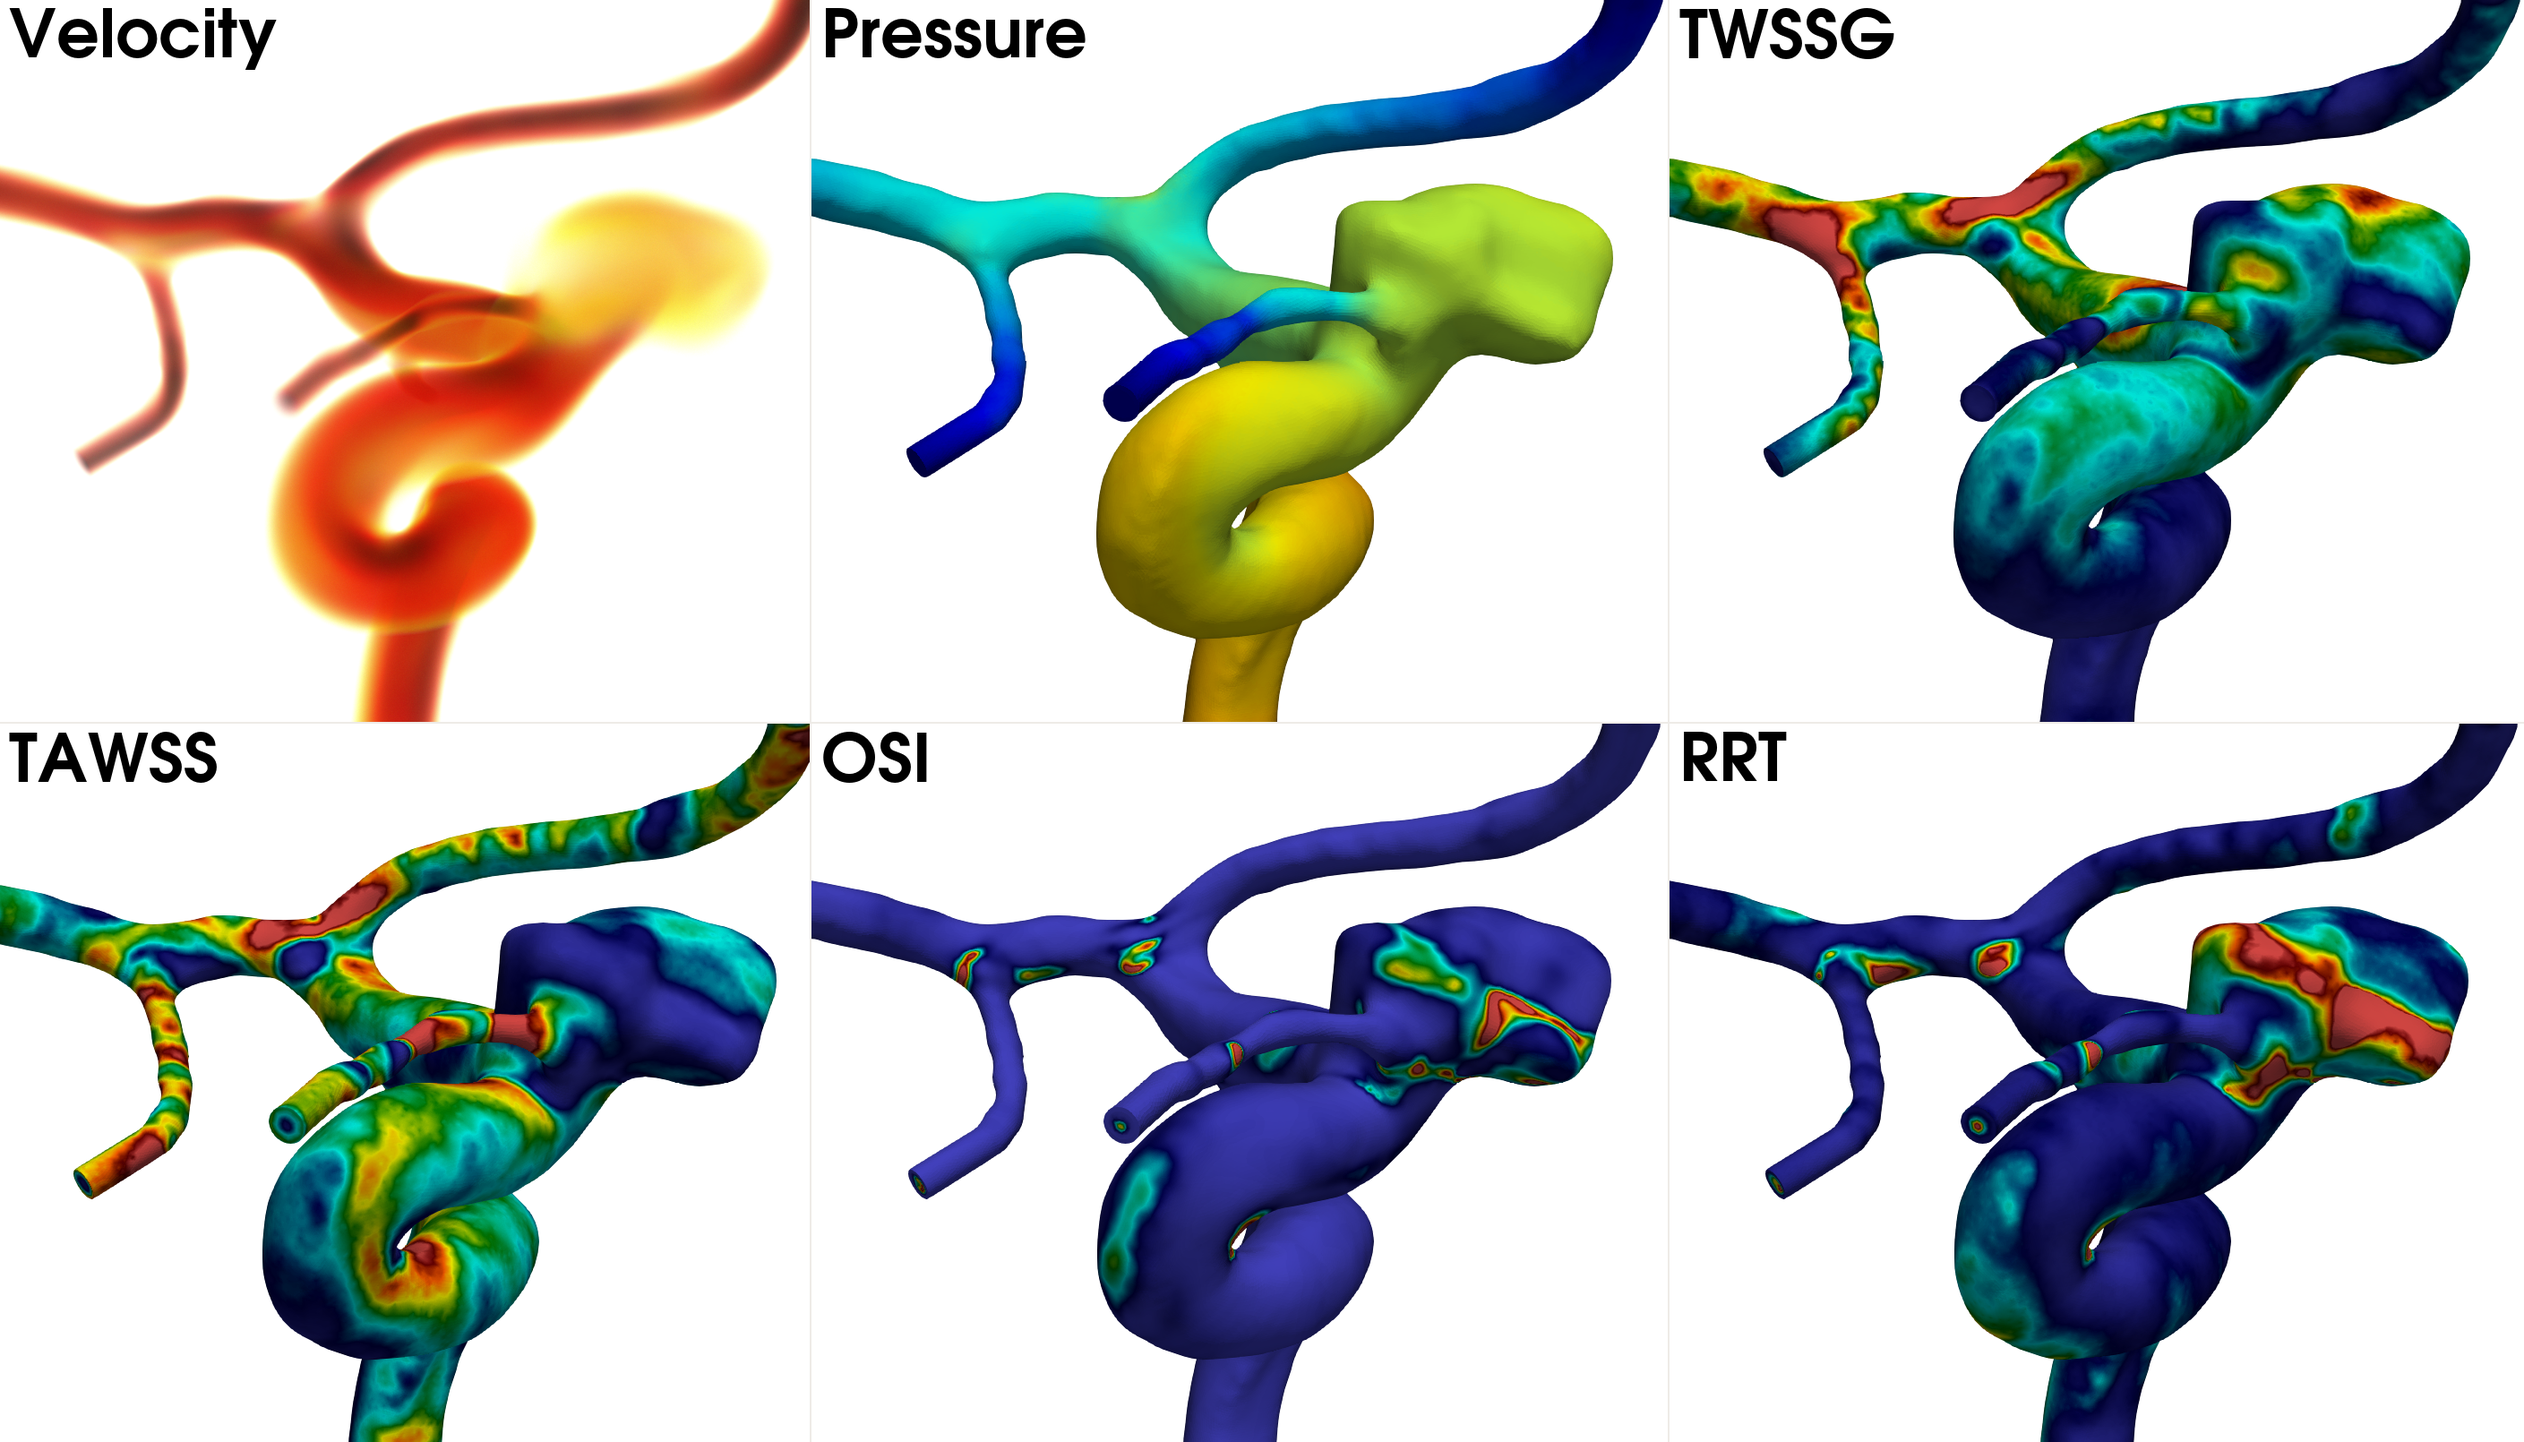
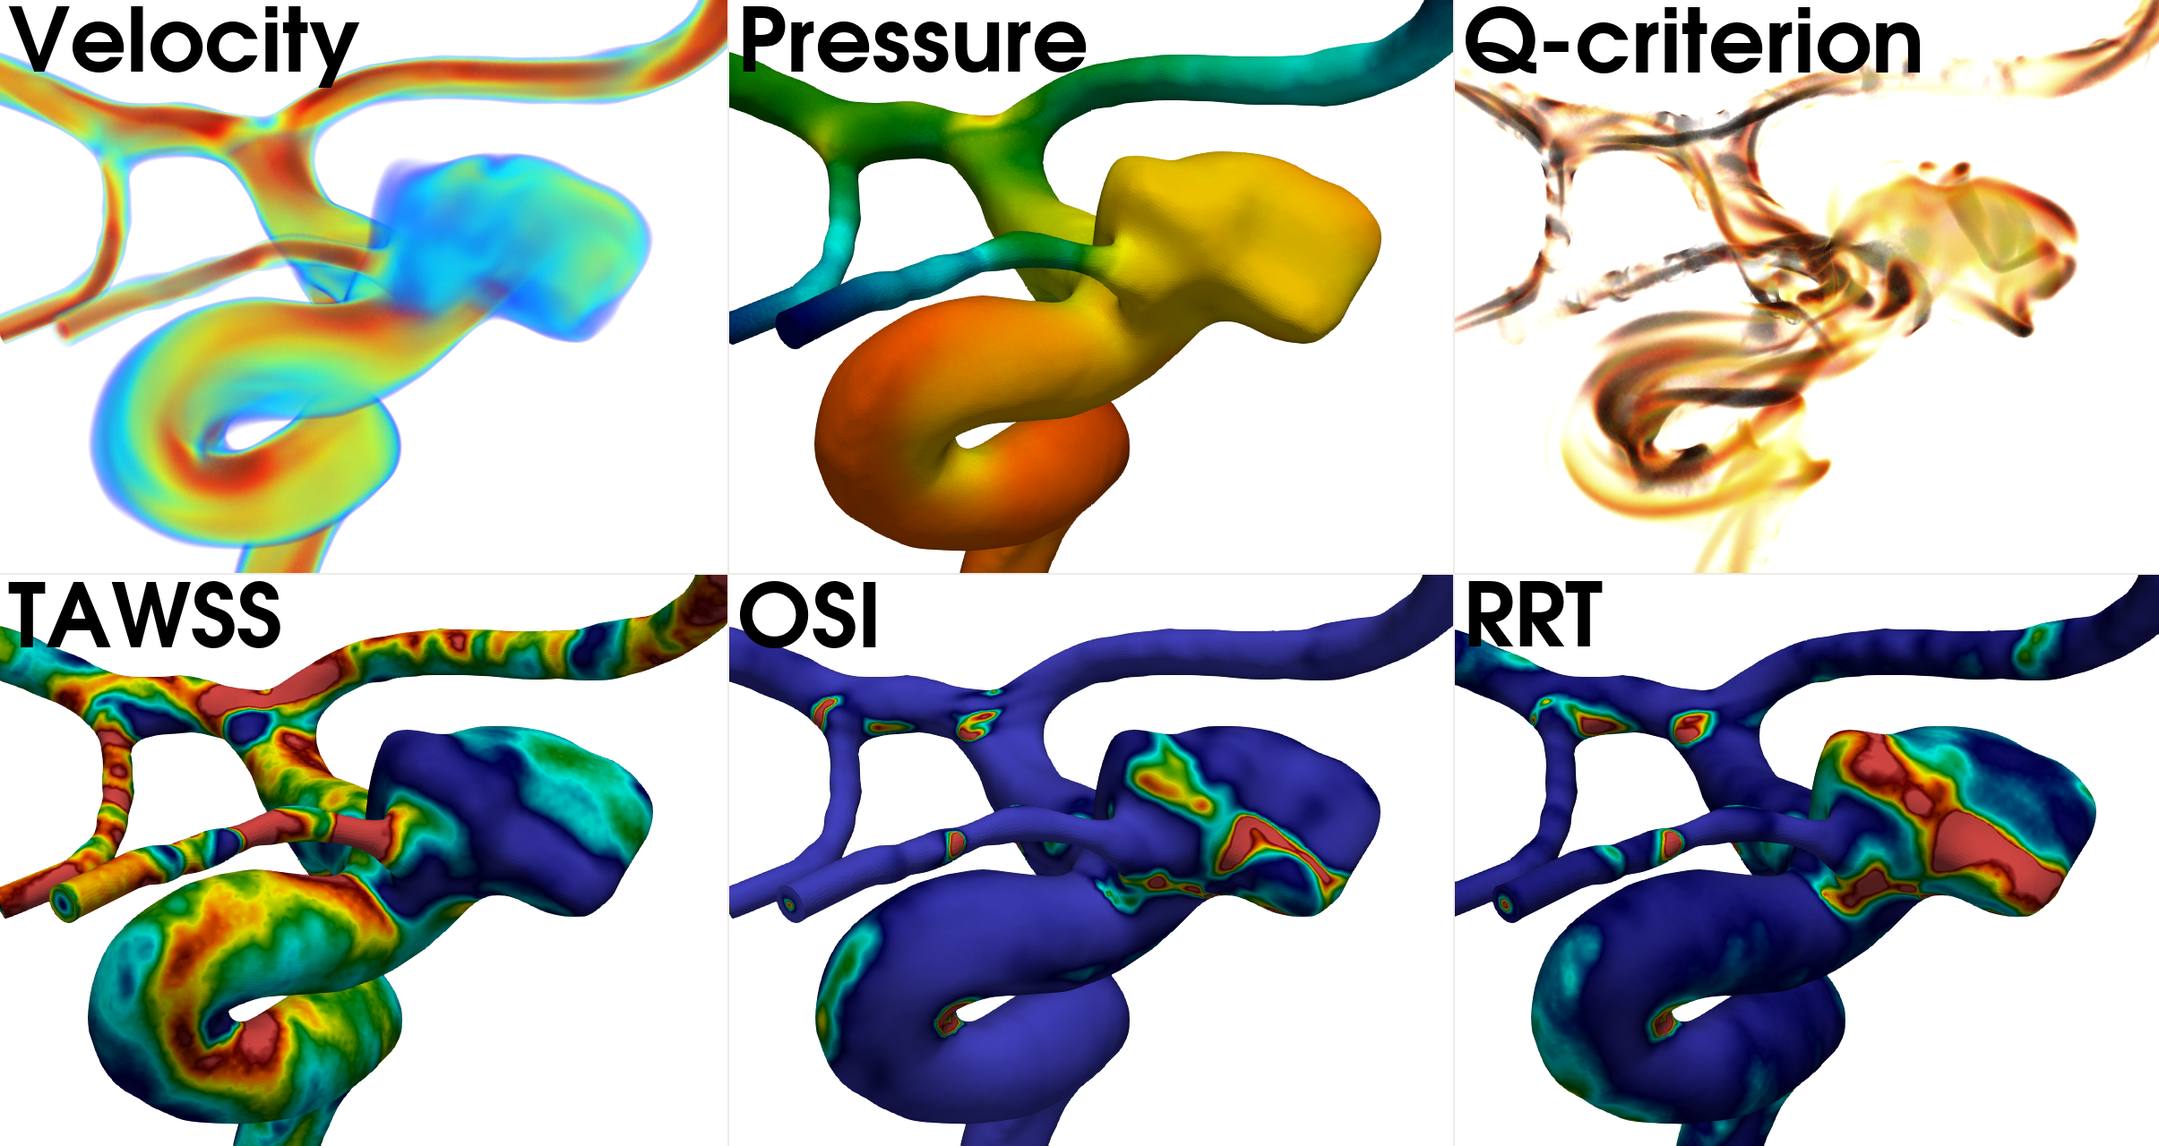
Update artery image

diff --git a/docs/source/tutorials.rst b/docs/source/tutorials.rst
@@ -93,11 +93,11 @@ Running the command results in a volumetric mesh consisting of ~20M tetrahedral 
 
 The mesh is used as input to the CFD simulations, followed by computation of the hemodynamic indices, which are initiated as described in :ref:`getting_started`.
 The simulation was run for one cardiac cycle, corresponding to 0.951 s, with :math:`\Delta t =` 0.0951 ms resulting in a total of 10 000 time steps per cycle.
-In Figure 6 we present the volumetric rendering of velocity, the pressure field, and four hemodynamic indices; temporal wall shear stress gradient (TWSSG), time averaged wall shear stress (TAWSS), oscillatory shear index (OSI), and relative residence time (RRT).
+In Figure 6 we present the volumetric rendering of velocity, the pressure field, the Q-criterion displaying vortical structures, and three hemodynamic indices; the time averaged wall shear stress (TAWSS), the oscillatory shear index (OSI), and the relative residence time (RRT).
 
 .. figure:: artery_results.png
 
-  Figure 6: From left to right: the volumetric rendering of velocity, the pressure field, TWSSG, TAWSS, OSI, and RRT.
+  Figure 6: From left to right: the volumetric rendering of velocity, the pressure field, volumetric rendering of the Q-criterion, TAWSS, OSI, and RRT.
 
 
 Tutorial 2: Hemodynamics simulation on a left atrium
